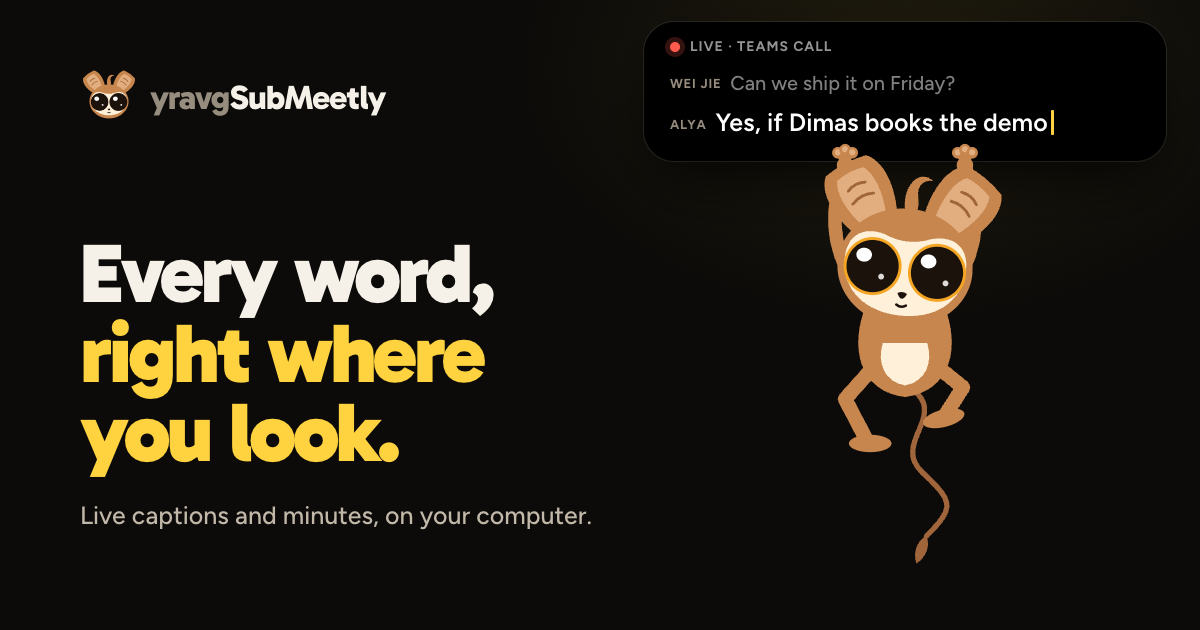
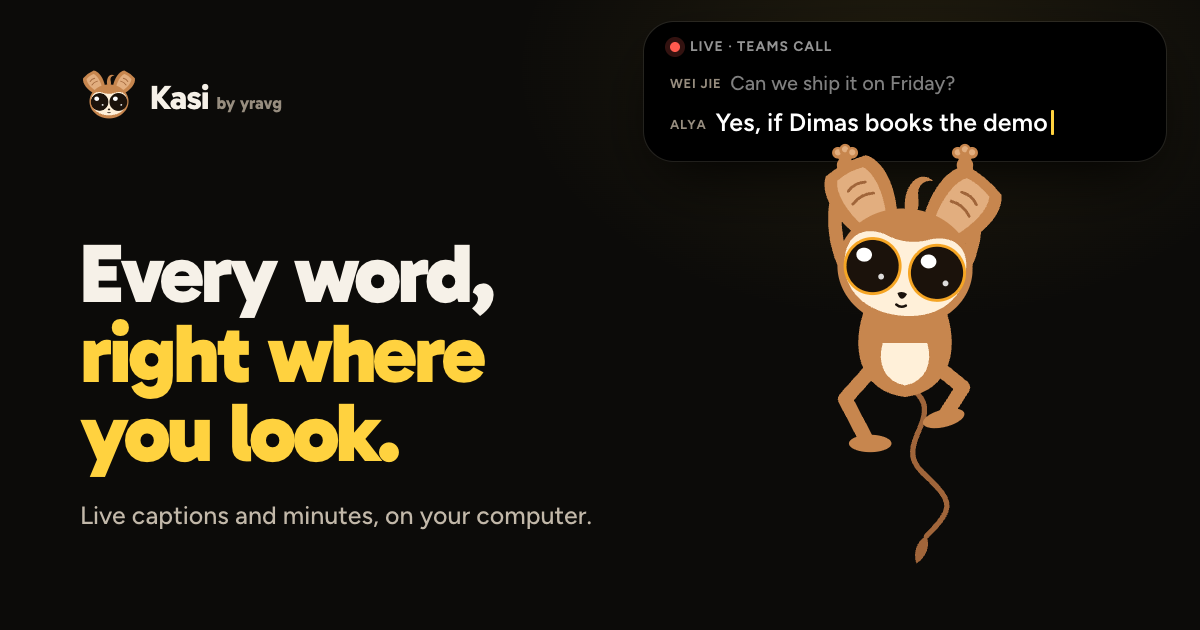
feat(site): rename to Kasi by yravg
The product is now Kasi by yravg (owner's decision: every name users see;
repo, bundle ids and data folders keep yravgSubMeetly). Nav lockup Kasi +
by yravg, badge 'yravgSubMeetly is now Kasi', copy, FAQ entry on the old
name, brand sheet, icon page and share image renamed.

Changed region(s): [[0.1233, 0.1206, 0.3392, 0.181]]

diff --git a/site/i18n.js b/site/i18n.js
@@ -2,12 +2,12 @@
 // Keys are read by main.js through [data-i18n] (text) and [data-i18n-attr] (attributes).
 window.SM_I18N = {
   en: {
-    'meta.title': 'yravgSubMeetly · live captions and minutes, on your computer',
+    'meta.title': 'Kasi by yravg · live captions and minutes, on your computer',
     'nav.demo': 'Demo', 'nav.kasi': 'Kasi', 'nav.features': 'Features', 'nav.private': 'Private', 'nav.download': 'Download',
     'nav.menu': 'Menu',
-    'hero.badge': 'New in 1.4: captions for any YouTube talk',
+    'hero.badge': 'yravgSubMeetly is now Kasi',
     'hero.h1a': 'Every word,', 'hero.h1b': 'right where you look.',
-    'hero.sub': 'yravgSubMeetly sits at the top of your screen and listens to your calls, videos and the room. It shows live captions, translates them on your computer, and leaves you minutes when the meeting ends.',
+    'hero.sub': 'Kasi sits at the top of your screen and listens to your calls, videos and the room. It shows live captions, translates them on your computer, and leaves you minutes when the meeting ends.',
     'hero.win': 'Download for Windows', 'hero.mac': 'Download for Mac',
     'hero.other.win': 'Also for Windows', 'hero.other.mac': 'Also for Mac',
     'hero.meta': 'Free · version {v} · {size}',
@@ -23,8 +23,8 @@ window.SM_I18N = {
     'cap.youtube': 'A YouTube talk: captions fetched and translated before each line is spoken.',
     'cap.today': 'Your day from your calendar link, with Join for Teams.',
     'demo.sample': 'Sample call and sample text, to show how it works.', 'demo.you': 'You',
-    'kasi.h': 'Meet Kasi.', 'kasi.h2': 'Big ears, bigger eyes.',
-    'kasi.p': 'Kasi is a tarsier, a tiny primate from the forests of Sulawesi. Its ears turn toward every sound and each eye is about as big as its brain. It lives on your pill, hears what you hear and writes it down. Kasi never talks. It listens.',
+    'kasi.h': 'Meet Kasi.', 'kasi.h2': 'The app has its face.',
+    'kasi.p': 'Kasi is named after a tarsier, a tiny primate from the forests of Sulawesi. Its ears turn toward every sound and each eye is about as big as its brain. Kasi lives on your pill, hears what you hear and writes it down. It never talks. It listens.',
     'kasi.s.listen': 'Listening', 'kasi.s.listen.d': 'Ears up when a call starts.',
     'kasi.s.write': 'Writing', 'kasi.s.write.d': 'Pencil out while captions run.',
     'kasi.s.translate': 'Translating', 'kasi.s.translate.d': 'A 180° head turn per translated line.',
@@ -62,7 +62,7 @@ window.SM_I18N = {
     'new.5.t': 'Speaker labels', 'new.5.d': 'You and Others, then Speaker 1, 2, 3 by voice.',
     'new.6.t': 'Updates by themselves', 'new.6.d': 'One release builds Windows and Mac, and both apps update from it.',
     'new.all': 'Read the full changelog',
-    'dl.h': 'Get yravgSubMeetly.',
+    'dl.h': 'Get Kasi.',
     'dl.win.t': 'Windows', 'dl.win.req': 'Windows 10 or 11, 64-bit', 'dl.win.btn': 'Download Setup',
     'dl.mac.t': 'macOS', 'dl.mac.req': 'Apple silicon and Intel', 'dl.mac.btn': 'Download DMG',
     'dl.size': '{size} · version {v}',
@@ -76,7 +76,7 @@ window.SM_I18N = {
     'faq.3.q': 'Which meeting apps work?', 'faq.3.a': 'Anything your computer plays. The pill also recognises Teams, Zoom, Webex and Slack huddles as meetings so it can keep minutes.',
     'faq.4.q': 'Which languages?', 'faq.4.a': 'Speech is recognised by Whisper models, which cover dozens of languages. Translation depends on the models you download; bigger models translate better, smaller ones are faster.',
     'faq.5.q': 'Do I need a strong computer?', 'faq.5.a': 'A normal laptop works with the small models. Settings › Models has a speed test so you can see what your computer handles.',
-    'foot.made': 'Part of the yravg family.',
+    'foot.made': 'Kasi by yravg. Part of the yravg family.',
     'foot.github': 'GitHub', 'foot.changelog': 'Changelog', 'foot.issues': 'Report a problem',
     'hero.phone': 'Get it on your computer',
     'kasi.tip.touch': 'Tap Kasi and it turns its head.',
@@ -94,15 +94,17 @@ window.SM_I18N = {
     'dl.sha': 'SHA-256',
     'foot.site': 'This page loads its fonts from Google Fonts and release details from GitHub.',
     'hero.meta.phone': 'Free · Windows and Mac · version {v}', 'f.files.t': 'Subtitle files', 'f.files.s': 'Save any session as SRT, VTT or TXT.', 'dl.copy': 'Copy', 'dl.copied': 'Copied',
+    'faq.6.q': 'Wasn’t this called yravgSubMeetly?',
+    'faq.6.a': 'Yes. yravgSubMeetly is now Kasi by yravg. Your settings, minutes and permissions carry over. Older installers, and the app until you update it, may still show the old name.',
     'lang.label': 'Language'
   },
   id: {
-    'meta.title': 'yravgSubMeetly · teks langsung dan notulen, di komputer Anda',
+    'meta.title': 'Kasi by yravg · teks langsung dan notulen, di komputer Anda',
     'nav.demo': 'Demo', 'nav.kasi': 'Kasi', 'nav.features': 'Fitur', 'nav.private': 'Privasi', 'nav.download': 'Unduh',
     'nav.menu': 'Menu',
-    'hero.badge': 'Baru di 1.4: teks untuk ceramah YouTube apa pun',
+    'hero.badge': 'yravgSubMeetly kini bernama Kasi',
     'hero.h1a': 'Setiap kata,', 'hero.h1b': 'tepat di depan mata.',
-    'hero.sub': 'yravgSubMeetly duduk di bagian atas layar dan mendengarkan rapat, video, dan ruangan Anda. Ia menampilkan teks langsung, menerjemahkannya di komputer Anda, dan menyiapkan notulen begitu rapat selesai.',
+    'hero.sub': 'Kasi duduk di bagian atas layar dan mendengarkan rapat, video, dan ruangan Anda. Ia menampilkan teks langsung, menerjemahkannya di komputer Anda, dan menyiapkan notulen begitu rapat selesai.',
     'hero.win': 'Unduh untuk Windows', 'hero.mac': 'Unduh untuk Mac',
     'hero.other.win': 'Juga untuk Windows', 'hero.other.mac': 'Juga untuk Mac',
     'hero.meta': 'Gratis · versi {v} · {size}',
@@ -118,8 +120,8 @@ window.SM_I18N = {
     'cap.youtube': 'Ceramah di YouTube: teks diambil dan diterjemahkan sebelum setiap kalimat diucapkan.',
     'cap.today': 'Hari Anda dari tautan kalender, dengan tombol Join untuk Teams.',
     'demo.sample': 'Contoh rapat dan contoh teks, untuk menunjukkan cara kerjanya.', 'demo.you': 'Anda',
-    'kasi.h': 'Kenalkan, Kasi.', 'kasi.h2': 'Telinga besar, mata lebih besar.',
-    'kasi.p': 'Kasi adalah tarsius, primata mungil dari hutan Sulawesi. Telinganya menoleh ke setiap suara dan setiap matanya kira-kira sebesar otaknya. Ia tinggal di pil Anda, mendengar yang Anda dengar, lalu menuliskannya. Kasi tidak pernah bicara. Ia mendengarkan.',
+    'kasi.h': 'Kenalkan, Kasi.', 'kasi.h2': 'Aplikasinya punya wajah.',
+    'kasi.p': 'Nama Kasi diambil dari tarsius, primata mungil dari hutan Sulawesi. Telinganya menoleh ke setiap suara dan setiap matanya kira-kira sebesar otaknya. Kasi tinggal di pil Anda, mendengar yang Anda dengar, lalu menuliskannya. Ia tidak pernah bicara. Ia mendengarkan.',
     'kasi.s.listen': 'Mendengar', 'kasi.s.listen.d': 'Telinga berdiri saat rapat mulai.',
     'kasi.s.write': 'Menulis', 'kasi.s.write.d': 'Pensil siap selama teks berjalan.',
     'kasi.s.translate': 'Menerjemah', 'kasi.s.translate.d': 'Menoleh 180° tiap baris terjemahan.',
@@ -157,7 +159,7 @@ window.SM_I18N = {
     'new.5.t': 'Label pembicara', 'new.5.d': 'Anda dan Lainnya, lalu Pembicara 1, 2, 3 menurut suara.',
     'new.6.t': 'Pembaruan otomatis', 'new.6.d': 'Satu rilis membangun Windows dan Mac, dan kedua aplikasi memperbarui diri darinya.',
     'new.all': 'Baca riwayat rilis lengkap',
-    'dl.h': 'Dapatkan yravgSubMeetly.',
+    'dl.h': 'Dapatkan Kasi.',
     'dl.win.t': 'Windows', 'dl.win.req': 'Windows 10 atau 11, 64-bit', 'dl.win.btn': 'Unduh Setup',
     'dl.mac.t': 'macOS', 'dl.mac.req': 'Apple silicon dan Intel', 'dl.mac.btn': 'Unduh DMG',
     'dl.size': '{size} · versi {v}',
@@ -171,7 +173,7 @@ window.SM_I18N = {
     'faq.3.q': 'Aplikasi rapat apa saja yang didukung?', 'faq.3.a': 'Apa pun yang diputar komputer Anda. Pil juga mengenali Teams, Zoom, Webex, dan huddle Slack sebagai rapat sehingga bisa menyusun notulen.',
     'faq.4.q': 'Bahasa apa saja?', 'faq.4.a': 'Suara dikenali oleh model Whisper yang mencakup puluhan bahasa. Terjemahan bergantung pada model yang Anda unduh; model besar menerjemahkan lebih baik, model kecil lebih cepat.',
     'faq.5.q': 'Apakah perlu komputer kuat?', 'faq.5.a': 'Laptop biasa cukup untuk model kecil. Settings › Models punya uji kecepatan agar Anda tahu kemampuan komputer Anda.',
-    'foot.made': 'Bagian dari keluarga yravg.',
+    'foot.made': 'Kasi by yravg. Bagian dari keluarga yravg.',
     'foot.github': 'GitHub', 'foot.changelog': 'Riwayat rilis', 'foot.issues': 'Laporkan masalah',
     'hero.phone': 'Pasang di komputer Anda',
     'kasi.tip.touch': 'Ketuk Kasi dan ia menoleh.',
@@ -189,6 +191,8 @@ window.SM_I18N = {
     'dl.sha': 'SHA-256',
     'foot.site': 'Halaman ini memuat font dari Google Fonts dan info rilis dari GitHub.',
     'hero.meta.phone': 'Gratis · Windows dan Mac · versi {v}', 'f.files.t': 'Berkas subtitel', 'f.files.s': 'Simpan sesi sebagai SRT, VTT atau TXT.', 'dl.copy': 'Salin', 'dl.copied': 'Tersalin',
+    'faq.6.q': 'Bukankah dulu namanya yravgSubMeetly?',
+    'faq.6.a': 'Benar. yravgSubMeetly kini bernama Kasi by yravg. Pengaturan, notulen, dan izin Anda tetap terbawa. Installer lama, dan aplikasinya sampai Anda memperbarui, mungkin masih menampilkan nama lama.',
     'lang.label': 'Bahasa'
   }
 };

diff --git a/site/index.html b/site/index.html
@@ -3,11 +3,11 @@
 <head>
 <meta charset="utf-8">
 <meta name="viewport" content="width=device-width, initial-scale=1">
-<title>yravgSubMeetly · live captions and minutes, on your computer</title>
+<title>Kasi by yravg · live captions and minutes, on your computer</title>
 <meta name="description" content="A small pill at the top of your screen that captions your calls and videos, translates them on your computer, and drafts the minutes. Windows and Mac. No account, no cloud.">
 <meta name="theme-color" content="#0C0B09">
 <meta property="og:type" content="website">
-<meta property="og:title" content="yravgSubMeetly: every word, right where you look">
+<meta property="og:title" content="Kasi by yravg: every word, right where you look">
 <meta property="og:description" content="Live captions, translation and meeting minutes in a small pill at the top of your screen. Windows and Mac, on your computer.">
 <meta property="og:image" content="https://yravg.github.io/yravgSubMeetly/assets/og.png">
 <meta property="og:image:width" content="1200"><meta property="og:image:height" content="630">
@@ -22,9 +22,9 @@
 <a class="skip" href="#main">Skip to content</a>
 
 <header class="nav" id="nav">
-  <a class="brand" href="#top" aria-label="yravgSubMeetly home">
+  <a class="brand" href="#top" aria-label="Kasi by yravg, home">
     <span class="brand-kasi" data-kasi="nav" aria-hidden="true"></span>
-    <span class="brand-word"><span class="brand-yr">yravg</span>SubMeetly</span>
+    <span class="brand-word"><span class="brand-name">Kasi</span><span class="brand-by">by yravg</span></span>
   </a>
   <nav class="nav-links" aria-label="Sections">
     <a href="#demo" data-i18n="nav.demo">Demo</a>
@@ -44,7 +44,7 @@
   <div class="hero-copy">
     <a class="badge" href="https://github.com/yravg/yravgSubMeetly/blob/main/CHANGELOG.md"><span class="badge-dot" aria-hidden="true"></span><span data-i18n="hero.badge">New in 1.4: captions for any YouTube talk</span></a>
     <h1 id="h1"><span data-i18n="hero.h1a">Every word,</span> <span class="h1b" data-i18n="hero.h1b">right where you look.</span></h1>
-    <p class="lede" data-i18n="hero.sub">yravgSubMeetly sits at the top of your screen and listens to your calls, videos and the room. It shows live captions, translates them on your computer, and leaves you minutes when the meeting ends.</p>
+    <p class="lede" data-i18n="hero.sub">Kasi sits at the top of your screen and listens to your calls, videos and the room. It shows live captions, translates them on your computer, and leaves you minutes when the meeting ends.</p>
     <div class="cta">
       <a class="btn btn-primary" id="cta-main" href="https://github.com/yravg/yravgSubMeetly/releases/latest">
         <svg class="os-ico" viewBox="0 0 24 24" aria-hidden="true"><path d="M12 4v11m0 0-4.5-4.5M12 15l4.5-4.5M5 19.5h14" fill="none" stroke="currentColor" stroke-width="2" stroke-linecap="round" stroke-linejoin="round"/></svg>
@@ -172,7 +172,7 @@
 </section>
 
 <section class="download" id="download" aria-labelledby="dl-h">
-  <div class="dl-head"><span class="dl-kasi" data-kasi="dl" aria-hidden="true"></span><h2 id="dl-h" data-i18n="dl.h">Get yravgSubMeetly.</h2></div>
+  <div class="dl-head"><span class="dl-kasi" data-kasi="dl" aria-hidden="true"></span><h2 id="dl-h" data-i18n="dl.h">Get Kasi.</h2></div>
   <div class="dl-grid">
     <div class="dl" id="dl-win" data-os="win">
       <svg class="dl-ico" viewBox="0 0 24 24" aria-hidden="true"><path d="M3 5.5 10.5 4.4v7.1H3Zm0 13 7.5 1.1v-7H3Zm8.5 1.3L21 21.2V12.6h-9.5Zm0-15.6v7.4H21V2.8Z" fill="currentColor"/></svg>
@@ -203,12 +203,13 @@
   <details><summary data-i18n="faq.3.q"></summary><p data-i18n="faq.3.a"></p></details>
   <details><summary data-i18n="faq.4.q"></summary><p data-i18n="faq.4.a"></p></details>
   <details><summary data-i18n="faq.5.q"></summary><p data-i18n="faq.5.a"></p></details>
+  <details><summary data-i18n="faq.6.q"></summary><p data-i18n="faq.6.a"></p></details>
 </section>
 </main>
 
 <footer class="foot">
   <span class="foot-kasi" data-kasi="foot" aria-hidden="true"></span>
-  <p><b>yravgSubMeetly</b> · <span data-i18n="foot.made">Part of the yravg family.</span></p>
+  <p><b>Kasi</b> · <span data-i18n="foot.made">Kasi by yravg. Part of the yravg family.</span></p>
   <p class="foot-note" data-i18n="foot.site"></p>
   <nav aria-label="Footer">
     <a href="https://github.com/yravg/yravgSubMeetly" data-i18n="foot.github">GitHub</a>

diff --git a/site/brand/index.html b/site/brand/index.html
@@ -45,7 +45,7 @@
 <div class="bs">
   <header class="bs-head">
     <span id="hdr-k" style="width:96px;height:96px;display:block"></span>
-    <div><h1>Kasi &amp; yravgSubMeetly</h1><p>Brand sheet: the mascot, the marks, colour, type, motion and the rules. Every Kasi on this page is drawn live by <code>kasi.js</code>; the SVG files are in <code>site/assets/</code>.</p><p style="margin-top:10px"><a class="textlink" href="stickers/">Animated stickers</a> · <a class="textlink" href="icons/">App icon set</a> · <a class="textlink" href="../">Landing page</a></p></div>
+    <div><h1>Kasi by yravg</h1><p>Brand sheet: the mascot, the marks, colour, type, motion and the rules. Every Kasi on this page is drawn live by <code>kasi.js</code>; the SVG files are in <code>site/assets/</code>.</p><p style="margin-top:10px"><a class="textlink" href="stickers/">Animated stickers</a> · <a class="textlink" href="icons/">App icon set</a> · <a class="textlink" href="../">Landing page</a></p></div>
   </header>
 
   <h2>Who Kasi is</h2>
@@ -110,11 +110,11 @@
   const S = (o) => Kasi.svg(o);
   document.getElementById('hdr-k').innerHTML = S({ pose: 'happy' });
   const tile = (art, b, s, cls = '') => `<div class="tile ${cls}"><div class="art">${art}</div><b>${b}</b><span>${s}</span></div>`;
-  const word = '<span class="y">yravg</span>SubMeetly';
+  const word = '<span>Kasi</span> <span class="y" style="font: 600 .5em/1 var(--body)">by yravg</span>';
   const mark = (h) => S({ pose: 'mark', mouth: 'small' }).replace('<svg', `<svg width="${h}" height="${h}"`);
   document.getElementById('marks').innerHTML =
     tile(Kasi.icon(150), 'App icon', 'Kasi’s head on an ink squircle, two pads holding a subtitle-yellow caption bar.') +
-    tile(`<div class="lock">${mark(54)}<span>${word}</span></div>`, 'Lockup on dark', 'Mark at 1.6× the cap height, then the word. “yravg” in the muted tone.') +
+    tile(`<div class="lock">${mark(54)}<span>${word}</span></div>`, 'Lockup on dark', 'Mark at 1.6× the cap height, then “Kasi” and a small “by yravg” in the muted tone.') +
     tile(`<div class="lock">${mark(54)}<span>${word}</span></div>`, 'Lockup on light', 'Same lockup on paper.', 'cream') +
     tile(`<div style="background:#000;border-radius:99px;height:40px;display:flex;align-items:center;gap:8px;padding:0 16px 0 6px;color:#fff;font-weight:700">${mark(32)}14:32</div>`, 'Resting pill', 'The Kasi resting style: mark plus clock, 32 px tall.');
   document.getElementById('ladder').innerHTML = [[128, 0], [96, 0], [64, 0], [48, 1], [32, 1], [24, 1], [16, 1]].map(([s, m]) =>

diff --git a/site/style.css b/site/style.css
@@ -56,8 +56,9 @@ section { width: min(var(--wrap), 100% - 2 * var(--gut)); margin-inline: auto; }
 .brand { display: flex; align-items: center; gap: 8px; text-decoration: none; padding-right: 8px; }
 .brand-kasi { width: 40px; height: 40px; margin: -2px 0 0; display: block; }
 .brand-kasi svg { width: 100%; height: 100%; overflow: visible; }
-.brand-word { font: 800 1.08rem/1 var(--display); letter-spacing: -0.02em; white-space: nowrap; }
-.brand-yr { color: var(--text-3); font-weight: 700; }
+.brand-word { display: flex; align-items: baseline; gap: 6px; white-space: nowrap; }
+.brand-name { font: 800 1.28rem/1 var(--display); letter-spacing: -0.02em; }
+.brand-by { font: 600 .78rem/1 var(--body); color: var(--text-3); }
 .nav-links { display: flex; gap: 2px; }
 .nav-links a, .lang button { font: 600 .92rem/1 var(--body); color: var(--text-2); text-decoration: none; padding: 10px 12px; border-radius: 99px; transition: color .2s, background .2s; }
 .nav-links a:hover { color: var(--text); background: rgba(255,255,255,.07); }
@@ -349,7 +350,7 @@ details p { color: var(--text-2); padding: 0 0 24px; max-width: 64ch; }
   body { font-size: 16px; }
   .nav { height: 48px; gap: 4px; }
   .brand-word { font-size: .98rem; }
-  .brand-yr { display: none; }
+  .brand-by { display: none; }
   .nav-cta { padding: 11px 13px; font-size: .86rem; }
   .hero { padding-top: 104px; }
   .screen { aspect-ratio: 3 / 4; border-radius: 26px; }

diff --git a/site/kasi.js b/site/kasi.js
@@ -1,4 +1,4 @@
-/* Kasi, the yravgSubMeetly tarsier. One parametric drawing for every pose.
+/* Kasi, the tarsier behind Kasi by yravg (formerly yravgSubMeetly). One parametric drawing for every pose.
    Kasi.svg(opts) returns an <svg> string; the head centre is the origin.
    Flat colours only, so it stays crisp from 16 px up and animates by
    re-rendering with new numbers (ears, lids, gaze, yaw). */
@@ -196,7 +196,7 @@
   // The app icon: Kasi's head on an ink squircle, two pads holding a subtitle-yellow bar.
   function icon(size = 1024) {
     const head = svg({ pose: 'mark', mouth: 'small' }).replace(/^<svg[^>]*>|<\/svg>$/g, '');
-    return `<svg xmlns="http://www.w3.org/2000/svg" viewBox="0 0 1024 1024" width="${size}" height="${size}" role="img" aria-label="yravgSubMeetly">` +
+    return `<svg xmlns="http://www.w3.org/2000/svg" viewBox="0 0 1024 1024" width="${size}" height="${size}" role="img" aria-label="Kasi">` +
       `<path d="M512 0C860 0 1024 164 1024 512S860 1024 512 1024 0 860 0 512 164 0 512 0Z" fill="#4A3526"/>` +
       // a thin warm rim so the ink tile still reads on dark docks and taskbars
       `<path d="M512 0C860 0 1024 164 1024 512S860 1024 512 1024 0 860 0 512 164 0 512 0Z" transform="translate(512 512) scale(.972) translate(-512 -512)" fill="${C.ink}"/>` +

diff --git a/site/brand/og.html b/site/brand/og.html
@@ -2,7 +2,7 @@
 <html lang="en">
 <head>
 <meta charset="utf-8">
-<title>yravgSubMeetly social image</title>
+<title>Kasi social image</title>
 <!-- Source of site/assets/og.png (1200x630). Rebuild with: node site/brand/icons/build.cjs
      Kasi is drawn live by ../kasi.js. The caption is the page demo's sample call. -->
 <link rel="preconnect" href="https://fonts.googleapis.com"><link rel="preconnect" href="https://fonts.gstatic.com" crossorigin>
@@ -51,7 +51,7 @@
 <body>
 <div class="og">
   <div class="copy">
-    <div class="lock"><span class="mk" id="mark"></span><span><span class="yr">yravg</span>SubMeetly</span></div>
+    <div class="lock"><span class="mk" id="mark"></span><span>Kasi <span class="yr" style="font-size:.5em;font-weight:600;letter-spacing:0">by yravg</span></span></div>
     <h1 data-fit><span>Every word,</span><span class="y">right where you look.</span></h1>
     <p class="sub">Live captions and minutes, on your computer.</p>
   </div>

diff --git a/site/main.js b/site/main.js
@@ -1,4 +1,4 @@
-/* yravgSubMeetly landing page: language, downloads, the live pill demo, and Kasi. */
+/* Kasi by yravg landing page (repo: yravgSubMeetly): language, downloads, the live pill demo, and Kasi. */
 (() => {
   const $ = (s, r = document) => r.querySelector(s);
   const $$ = (s, r = document) => [...r.querySelectorAll(s)];
@@ -65,7 +65,7 @@
   $('#cta-main').addEventListener('click', (e) => {
     if (!isPhone || !navigator.share) return;
     e.preventDefault();
-    navigator.share({ title: 'yravgSubMeetly', url: location.href.split('#')[0] }).catch(() => { location.hash = 'download'; });
+    navigator.share({ title: 'Kasi by yravg', url: location.href.split('#')[0] }).catch(() => { location.hash = 'download'; });
   });
 
   /* ---------------- the headline captions itself ---------------- */

diff --git a/site/brand/icons/index.html b/site/brand/icons/index.html
@@ -52,7 +52,7 @@
 </head>
 <body>
 <main>
-  <h1>yravgSubMeetly app icon</h1>
+  <h1>Kasi app icon</h1>
   <p class="lead">Kasi's head on an ink squircle, holding a subtitle-yellow caption bar. Drawn by <code>Kasi.icon()</code> in <code>site/kasi.js</code>; every file here comes from <code>build.cjs</code>. For review only: nothing is wired into the app yet.</p>
 
   <h2>Every size</h2>

diff --git a/PRODUCT.md b/PRODUCT.md
@@ -41,7 +41,7 @@ Everything runs on the computer. Speech recognition (Whisper) and translation (O
 
 ## Brand Commitments
 
-- Name: **yravgSubMeetly**, part of the yravg family (lowercase `yravg`). Older internal name yraverageSubMin.
+- Name: **Kasi by yravg** (short: Kasi), renamed from yravgSubMeetly on 2026-11-15 by the owner. Scope: every name users see (site, app window, tray, pill, About, installer and DMG). Bundle ids, data folders, storage keys and the GitHub repo `yravg/yravgSubMeetly` keep the old name so updates, permissions and saved minutes carry over. Older internal name yraverageSubMin. Part of the yravg family (lowercase `yravg`).
 - Every UI string in English and Indonesian.
 - Mascot: the owner rejected Bud (green plush seedling, yravgBuds) as "too generic" and wants a mascot on par with top-chart apps of 2026 *(owner, 2026-11-15)*. Tide (white otter) is the current in-app mascot from yravgBuds.
 - Style reference for the landing page: rama2555.github.io/nusa *(owner, 2026-11-15)*: dark, one big live demo of the notch, short sections, EN/ID switch. Borrow structure and feel, not its words, art or purple look.

diff --git a/DESIGN.md b/DESIGN.md
@@ -1,4 +1,6 @@
-# Design: yravgSubMeetly site and Kasi
+# Design: Kasi by yravg (site and mascot)
+
+The product formerly called yravgSubMeetly is **Kasi by yravg** (renamed 2026-11-15; repo, bundle ids and data folders keep the old name). The app and its mascot share the name.
 
 Scope: the public landing page (`site/index.html`) and the brand sheet (`site/brand/index.html`). The app's own UI keeps its tokens in `src/tokens.css` and palettes in `src/palettes.css`; nothing here changes them.
 

diff --git a/site/README.md b/site/README.md
@@ -1,6 +1,6 @@
-# yravgSubMeetly website and Kasi
+# Kasi by yravg: website and brand
 
-The public landing page for yravgSubMeetly and the brand sheet for its mascot, **Kasi** (a tarsier from Sulawesi). Static files, no build step.
+The public landing page for **Kasi by yravg** (formerly yravgSubMeetly) and the brand sheet for its mascot and namesake, Kasi (a tarsier from Sulawesi). Static files, no build step.
 
 | File | What it is |
 | --- | --- |
